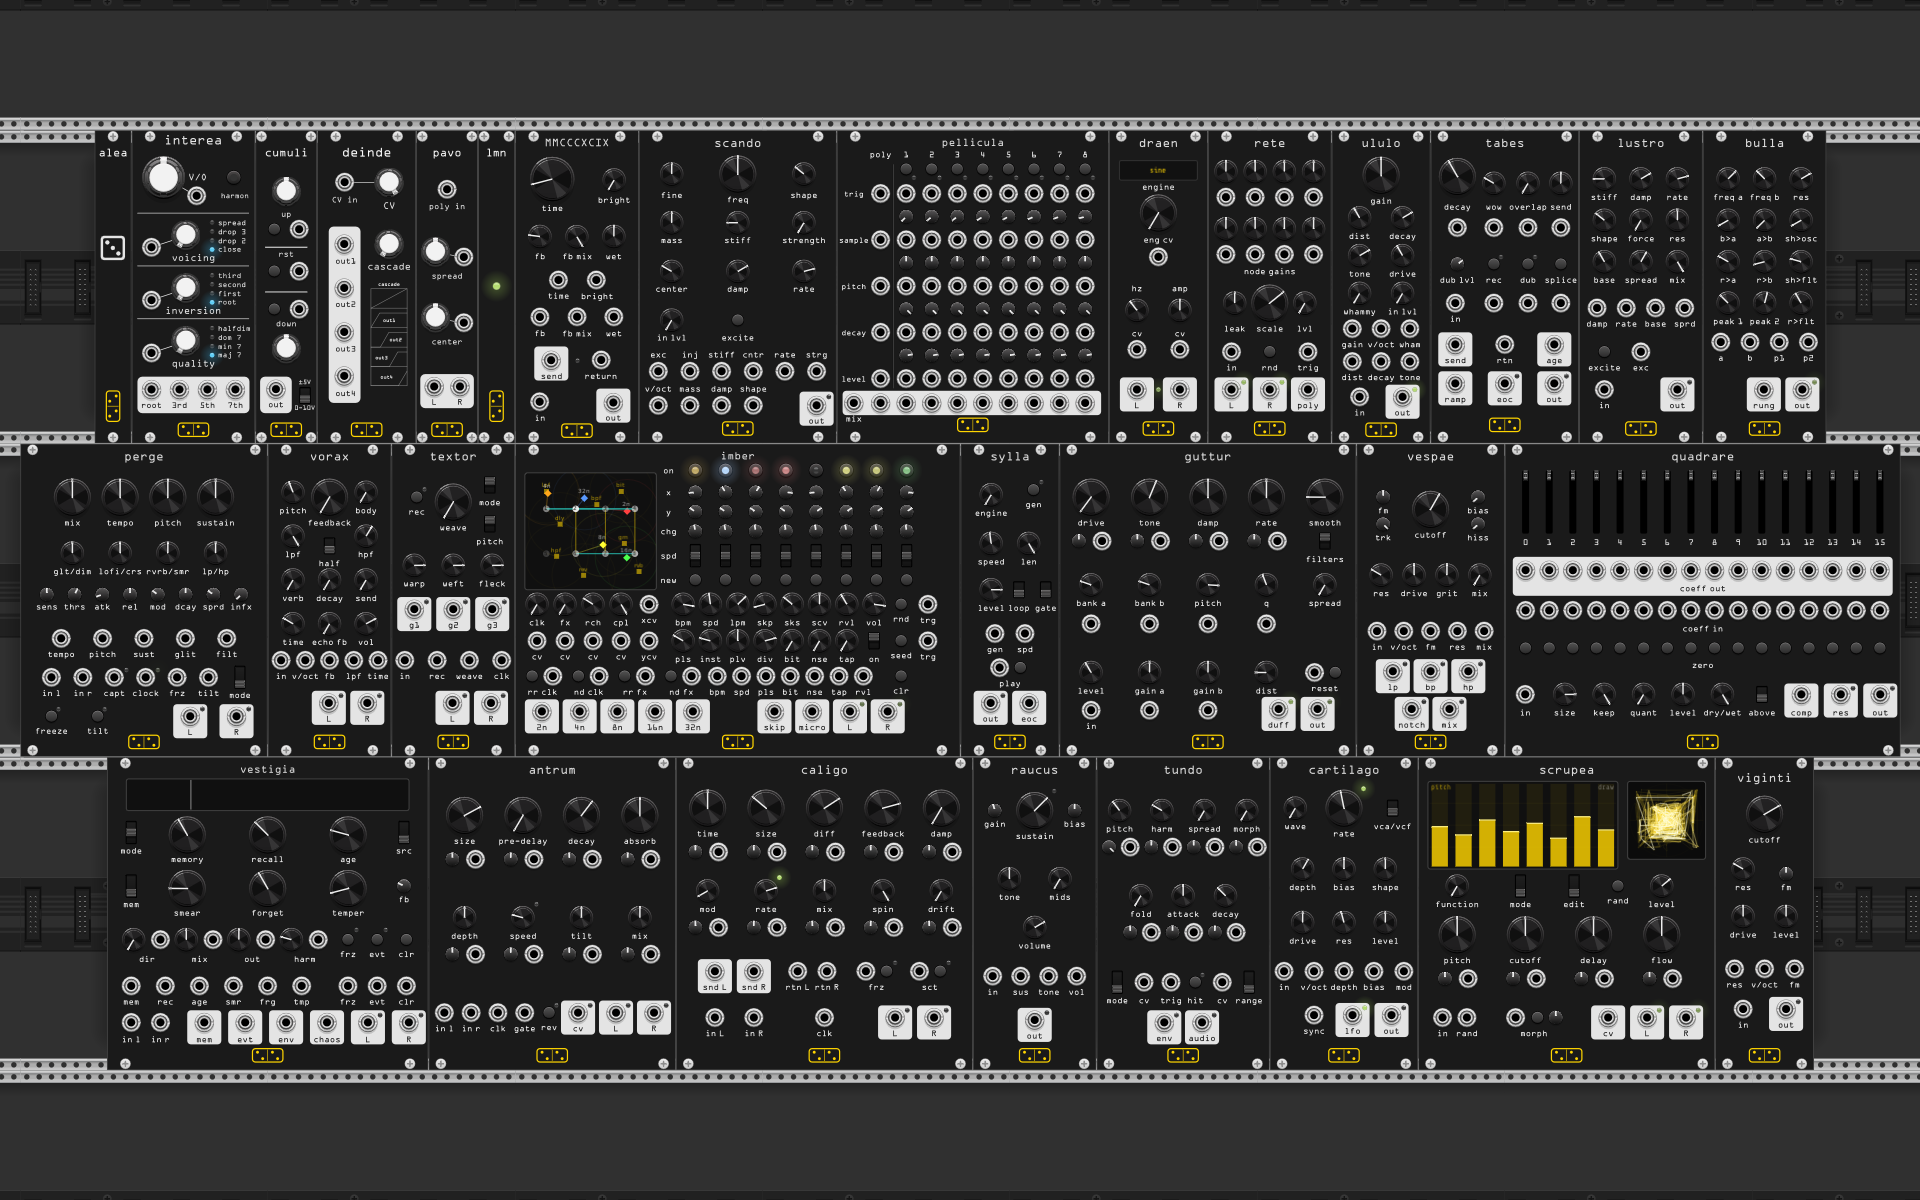
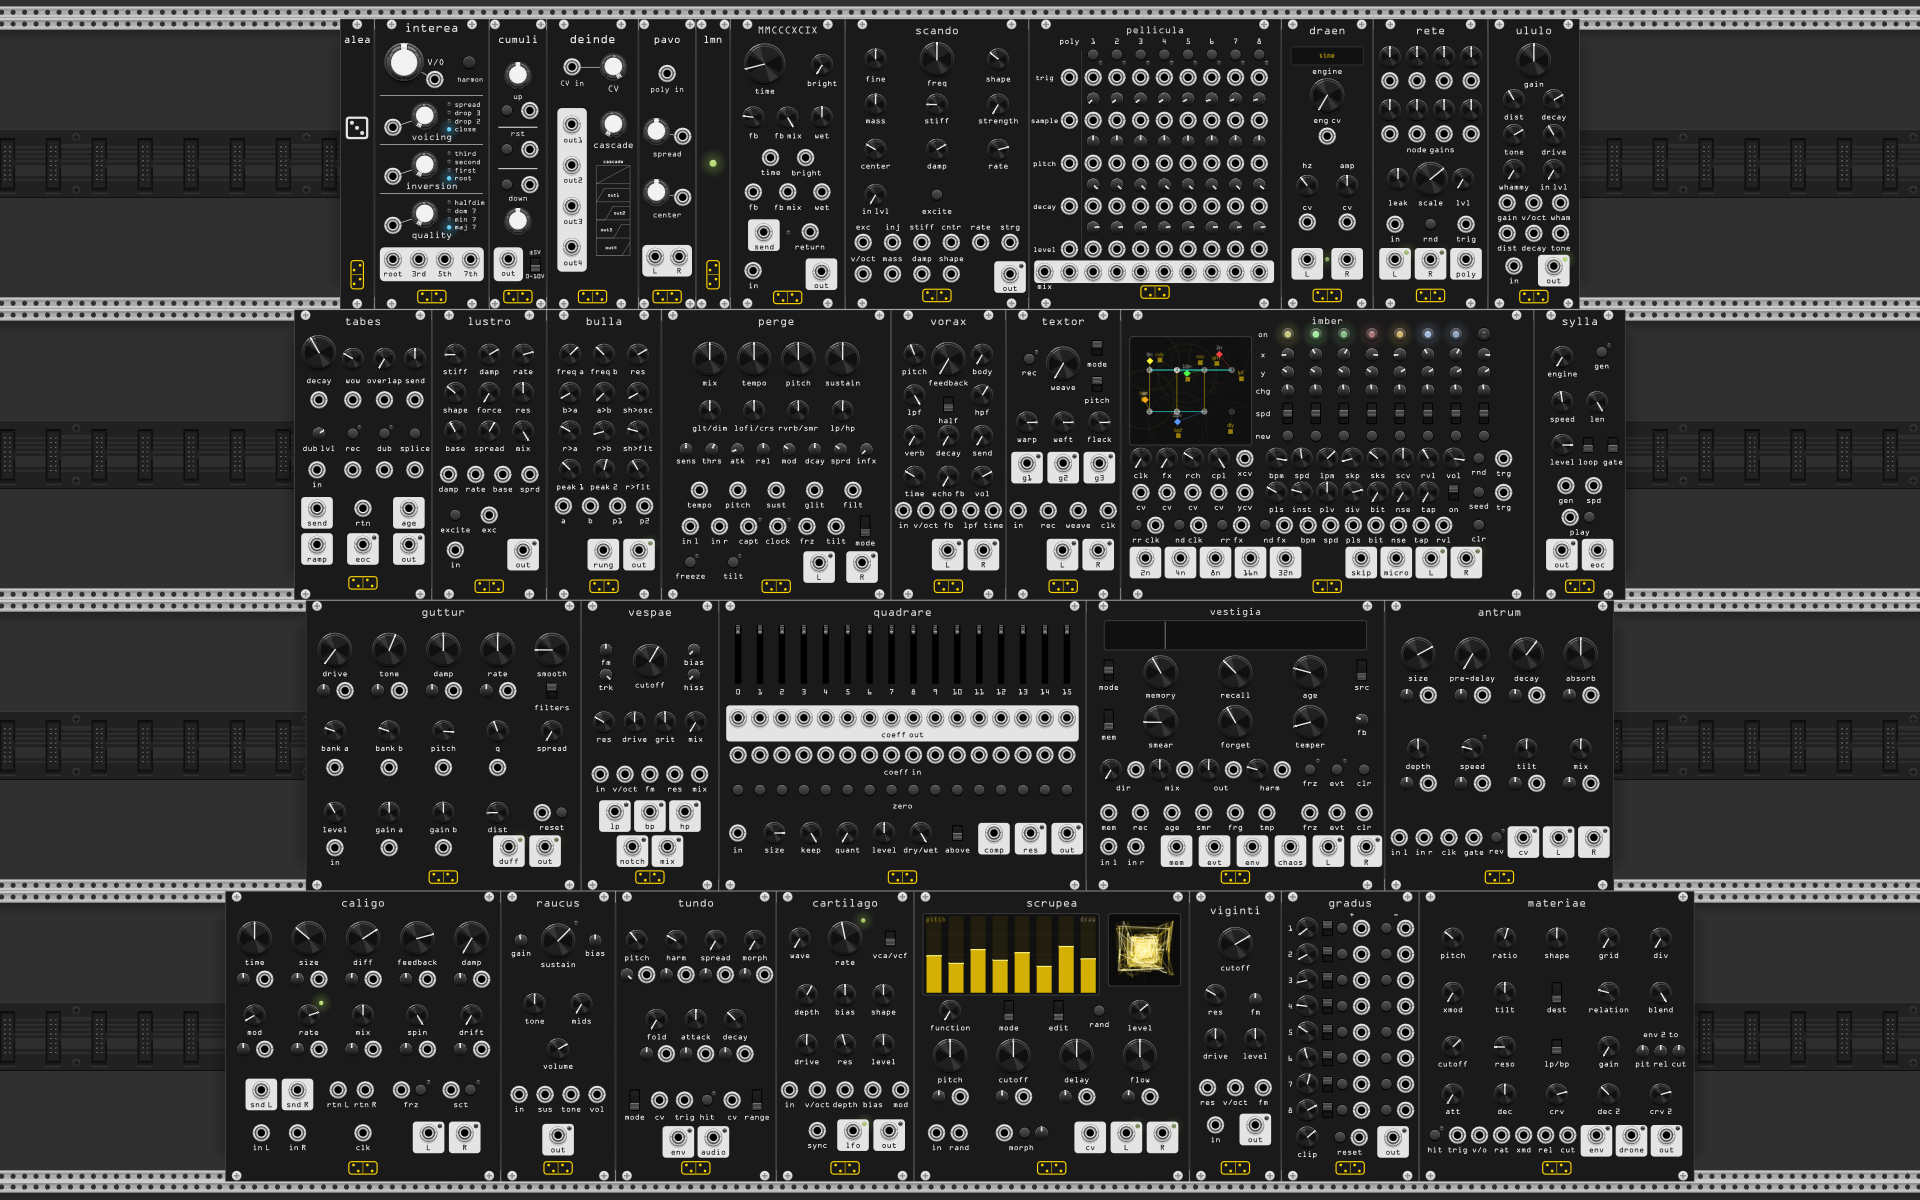
release: 2.15.0
Two new modules: gradus and materiae. Dates the changelog entry, and
regenerates the lineup image, which is now 33 modules over four rows.

plugin.json was already at 2.15.0 from the gradus work; sync_version.py
confirms it, the changelog heading and all 35 documentation URLs agree.

diff --git a/CHANGELOG.md b/CHANGELOG.md
@@ -5,7 +5,7 @@ All notable changes to this project will be documented in this file.
 The format is based on [Keep a Changelog](http://keepachangelog.com/)
 and this project adheres to [Semantic Versioning](http://semver.org/).
 
-## [2.15.0] - 2026-08-14
+## [2.15.0] - 2026-08-18
 ### Added
   - **materiae**, a 24 HP percussion voice built from two square waves and
     nothing else. Both oscillators are naive squares; all of the complexity is
